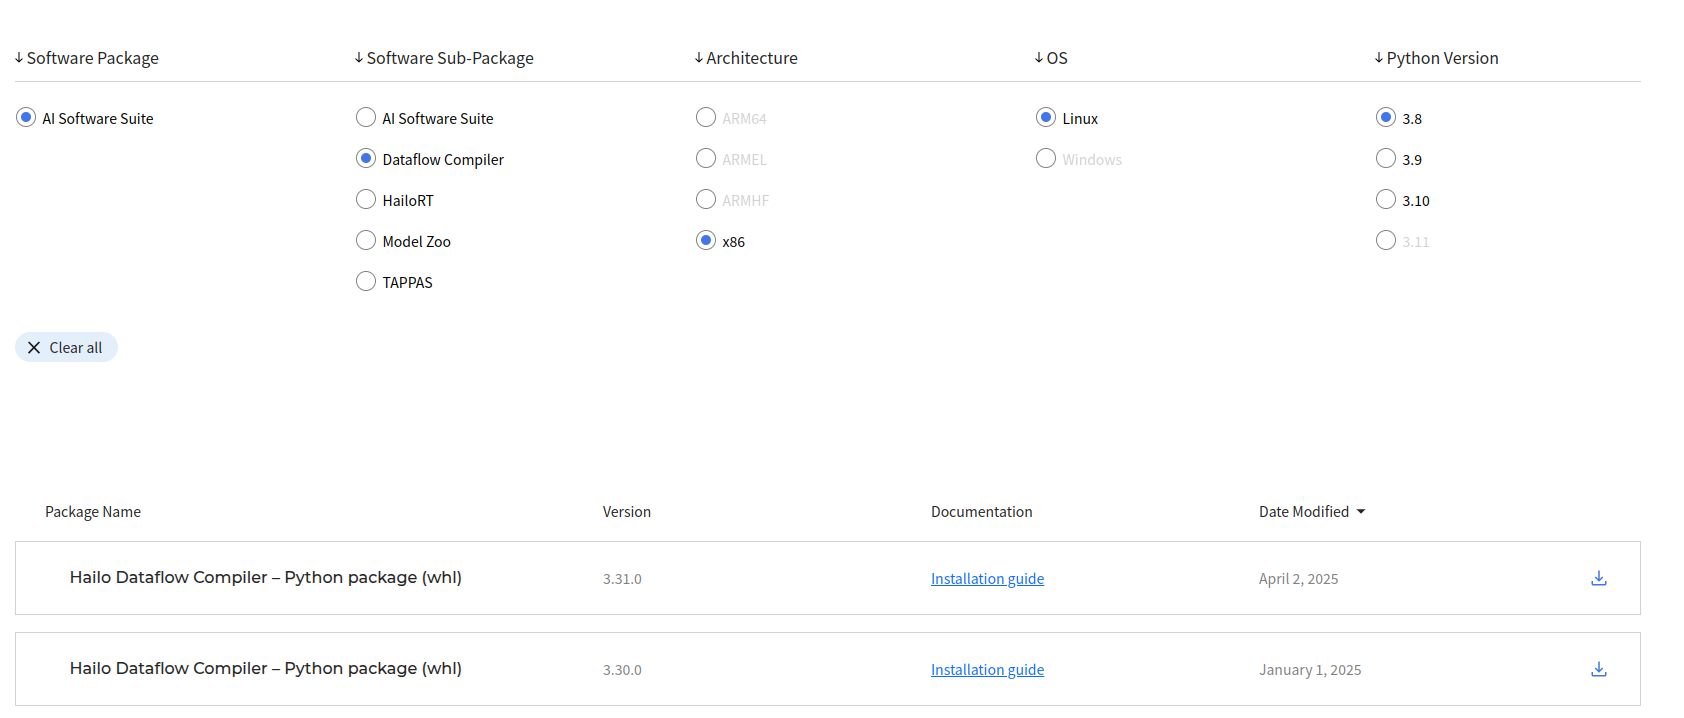
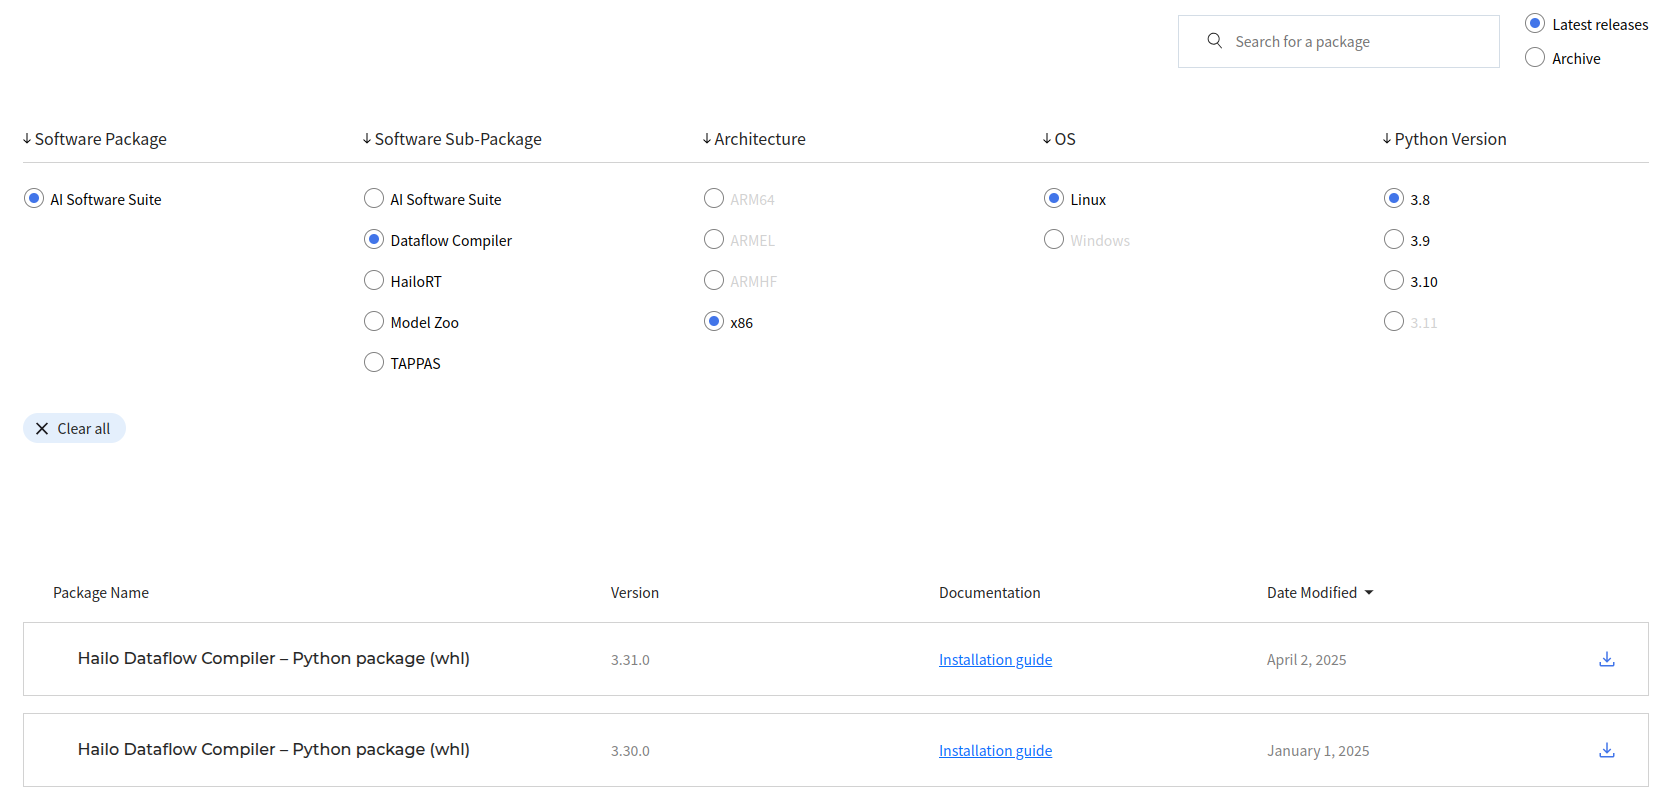
update

diff --git a/_posts/Raspberry Pi/2025-04-13-raspberry-hailo8-run.md b/_posts/Raspberry Pi/2025-04-13-raspberry-hailo8-run.md
@@ -51,7 +51,11 @@ conda deactivate  # 退出虚拟环境
 
 ### 安装Hailo DFC
 
-为了将自定义模型编译为 `.hef` 模型，需要安装 **Hailo Dataflow Compiler**（DFC） 工具。登录 Hailo 的网站 https://hailo.ai/developer-zone/software-downloads ，找到对应 Python 版本的 `.whl` 文件，并下载。
+为了将自定义模型编译为 `.hef` 模型，需要安装 **Hailo Dataflow Compiler**（DFC） 工具。登录 Hailo 的网站 <a href="https://hailo.ai/developer-zone/software-downloads">https://hailo.ai/developer-zone/software-downloads</a>，找到对应 Python 版本的 `.whl` 文件，并下载。
+
+
+Latest release（最新版本）、Archive（存档）。
+
 ![](/common/posts/hailo/hailo-Dataflow-Compiler.png)
 
 安装 graphviz 库：
@@ -103,6 +107,8 @@ sudo apt install libcudnn8 libcudnn8-dev
 ```
 
 2. Could not load library **libcublasLt.so.12**. Error: **libcublasLt.so.12**: cannot open shared object file: No such file or directory
+
+已安装的 Hailo Dataflow Compiler 版本，需要的 `libcublas` 库版本不满足。
 ```shell
 apt search libcublas  # 查看cublas版本
 sudo apt install libcublas-dev-12-8
